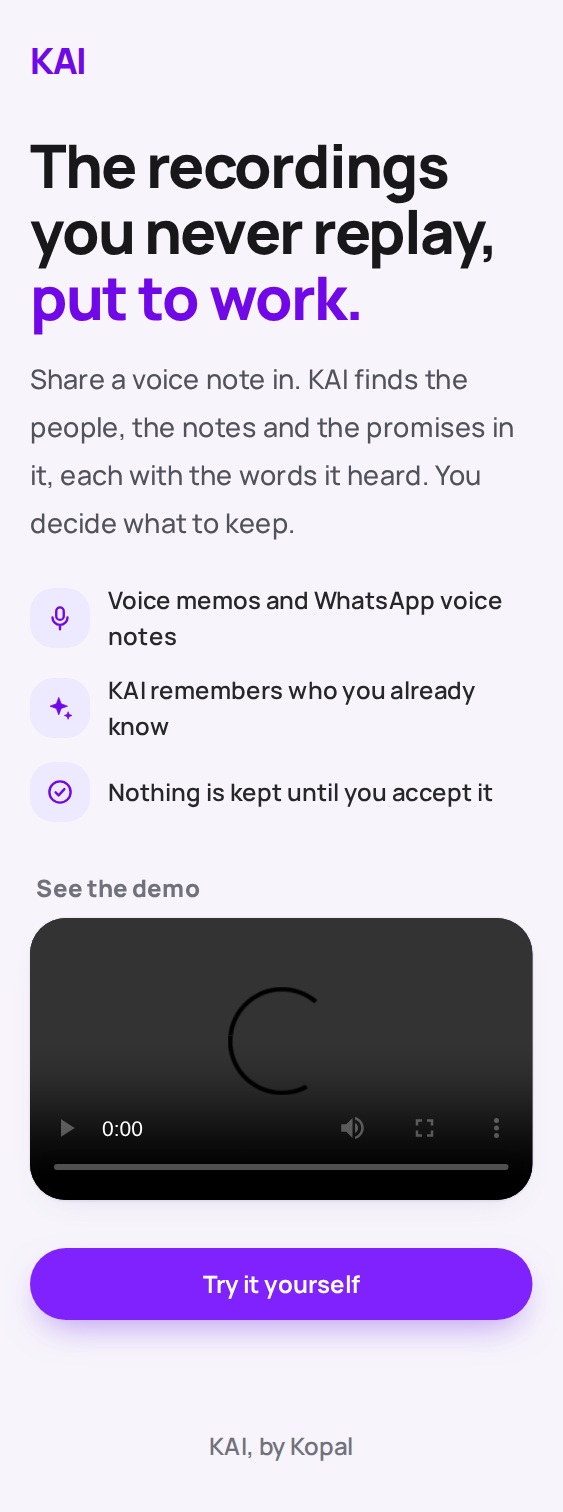
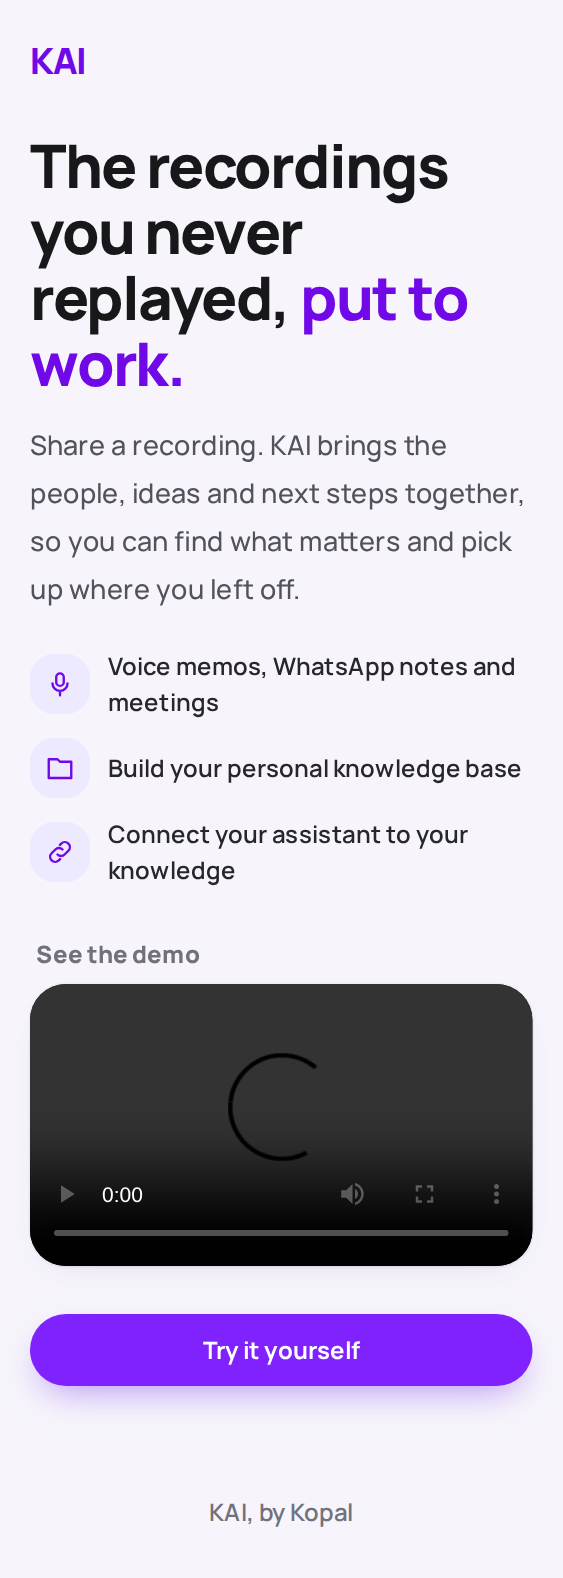
Explain Welcome through recordings, knowledge and assistant access

diff --git a/src/look/screens/Welcome.tsx b/src/look/screens/Welcome.tsx
@@ -13,18 +13,18 @@ export function Welcome({ access, failed }: { access: Access | null; failed?: bo
       <span className="text-2xl font-extrabold tracking-tight text-violet-700">KAI</span>
       <main className="flex flex-1 animate-kai-in flex-col justify-center py-8">
         <h1 className="text-[40px]/[1.1] font-extrabold tracking-tight">
-          The recordings you never replay, <span className="text-violet-700">put to work.</span>
+          The recordings you never replayed, <span className="text-violet-700">put to work.</span>
         </h1>
         <p className="mt-4 text-lg/8 font-medium text-zinc-600">
-          Share a voice note in. KAI finds the people, the notes and the promises in it, each with the words it heard. You decide what to keep.
+          Share a recording. KAI brings the people, ideas and next steps together, so you can find what matters and pick up where you left off.
         </p>
 
         <ul className="mt-6 space-y-3">
           {(
             [
-              ['mic', 'Voice memos and WhatsApp voice notes'],
-              ['sparkle', 'KAI remembers who you already know'],
-              ['todo', 'Nothing is kept until you accept it'],
+              ['mic', 'Voice memos, WhatsApp notes and meetings'],
+              ['folder', 'Build your personal knowledge base'],
+              ['link', 'Connect your assistant to your knowledge'],
             ] as const
           ).map(([icon, text]) => (
             <li key={text} className="flex items-center gap-3 text-base font-semibold text-zinc-800">
@@ -55,8 +55,7 @@ export function Welcome({ access, failed }: { access: Access | null; failed?: bo
             </Button>
           )}
           {!opening && access?.kind !== 'judge' && <>
-            <p className="text-center text-base font-medium text-zinc-600">Join the waitlist. Try 30 minutes of your own recordings.</p>
-            <Button variant="quiet" wide href="/login">Sign in</Button>
+            <p className="text-center text-base font-medium text-zinc-600">Try 30 minutes of your own recordings and join the waitlist.</p>
             <Button variant="quiet" wide href="/home">Look around</Button>
           </>}
         </div>

diff --git a/tests/phone/login.spec.ts b/tests/phone/login.spec.ts
@@ -21,8 +21,8 @@ test('email sign-in restores a recording in a second browser and offers explicit
   const old=await original.newPage();await old.goto('/home');await expect(old.getByText('2 min 3 sec left')).toBeVisible();
  }finally{await original.close()}
 });
-test('Welcome links to sign-in and invitation switching warns before leaving',async({page,kai})=>{
- await page.goto('/');await page.getByRole('link',{name:'Sign in',exact:true}).click();await expect(page.getByRole('heading',{name:'Welcome back'})).toBeVisible();await assertPhone(page);
+test('Welcome uses the shared entry action and invitation switching warns before leaving',async({page,kai})=>{
+ await page.goto('/');await expect(page.getByRole('link',{name:'Sign in',exact:true})).toHaveCount(0);await page.getByRole('link',{name:'Try it yourself',exact:true}).click();await expect(page.getByLabel('Email',{exact:true})).toBeVisible();await expect(page.getByRole('button',{name:'Send verification code'})).toBeEnabled();await assertPhone(page);
  const invitation=createJudge(kai.db,false);await page.context().addCookies([{name:'kai_session',value:invitation.cookie,url:'http://127.0.0.1:18520'}]);await page.goto('/login');
  await expect(page.getByText('This invitation notebook has no verified email. Signing out will lose this browser’s access.')).toBeVisible();await expect(page.getByRole('button',{name:'Switch notebooks'})).toBeDisabled();await page.getByRole('checkbox',{name:'I’m ready to leave this notebook'}).check();await expect(page.getByRole('button',{name:'Switch notebooks'})).toBeEnabled();await assertPhone(page);await page.getByRole('button',{name:'Switch notebooks'}).click();await expect(page.getByRole('heading',{name:'Welcome back'})).toBeVisible();
 });

diff --git a/PRD.md b/PRD.md
@@ -810,9 +810,11 @@ restriction and the earlier exclusion of an in-app setup/code link.
   codes cannot cross flows or be reused. Return generic code-request replies
   rather than disclosing whether an address owns a notebook. Never log or
   persist a plaintext code or expose addresses in notebook APIs or MCP.
-- Add Sign in on Welcome and in settings, Sign out for this browser, and
-  Sign out everywhere for the notebook. Browser revocation does not rotate
-  upload/MCP addresses. Do not silently switch a signed-in browser to a
+- Keep Sign in in settings. On Welcome, Try it yourself handles both new
+  and returning testers through §20; omit the separate Sign in action
+  **(Copal: “Update the PRD and remove Welcome’s Sign in”)**. Keep Sign out
+  for this browser and Sign out everywhere for the notebook. Browser revocation
+  does not rotate upload/MCP addresses. Do not silently switch a signed-in browser to a
   different notebook; make the change explicit before verifying it.
 - Update terms, signup and email-link wording for verified email recovery;
   increment the terms version. Existing judge invitations remain valid and

diff --git a/design/README.md b/design/README.md
@@ -184,3 +184,5 @@ Overdue/due-soon badges and status counts use 14 px type. Only the marked non-in
 The public email card introduces both choices: try personal recordings with 30 minutes of demo time, or receive one future product email. Signed-in and saved waitlist cards retain their waitlist-only wording.
 
 The public card, trial and sign-in share email, code and post-verification terms states. Returning owners with current terms go straight to their notebook without a repeated checkbox. Updated terms have their own full-page and popup states.
+
+Welcome follows recordings → personal knowledge → assistant access. It uses “never replayed,” describes finding people, ideas and next steps, and puts the 30-minute trial before the waitlist. Try it yourself is the single signup/sign-in entry; the separate Welcome sign-in link is removed.

diff --git a/README.md b/README.md
@@ -454,7 +454,8 @@ notice within the existing email limits, without retaining the rejected audio.
 
 ### Sign in to the same notebook
 
-Welcome and Connections offer email sign-in for existing verified testers.
+Welcome’s Try it yourself handles both new and returning testers. Connections
+also offers email sign-in for existing verified testers.
 Codes expire after ten minutes, allow five guesses, and work only in the
 browser that requested them. The public card, /try and /login share one
 verification-first flow and the existing send limits with recording emails.
